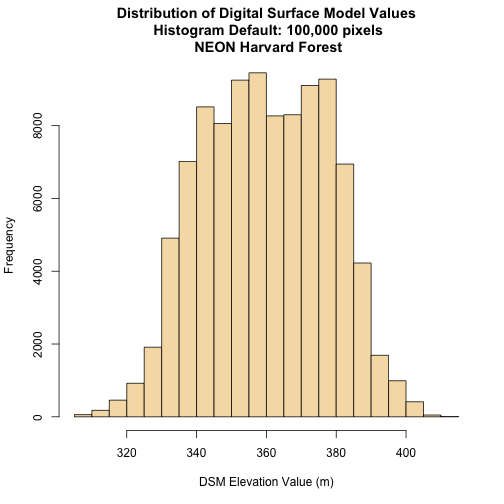
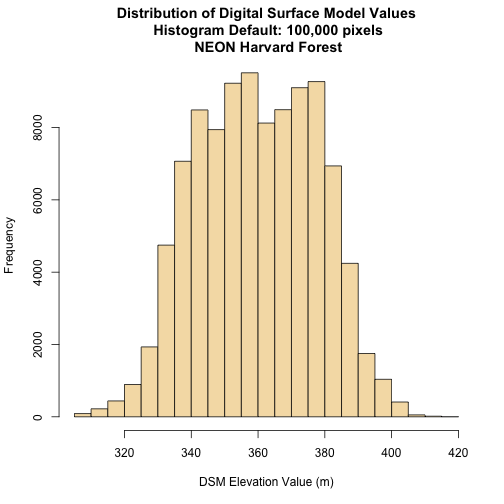
Rebuild and cleanup of raster repo

diff --git a/_posts/R/dc-spatial-raster/2016-01-07-SR07-Extract-NDVI-From-Rasters-in-R.md b/_posts/R/dc-spatial-raster/2016-01-07-SR07-Extract-NDVI-From-Rasters-in-R.md
@@ -394,6 +394,30 @@ to high levels of cloud cover.
 
 Is the same thing happening at SJER?
 
+
+    # open up the cropped files
+    rgb.allCropped.SJER <-  list.files("NEON-DS-Landsat-NDVI/SJER/2011/RGB/", 
+                                  full.names=TRUE, 
+                                  pattern = ".tif$")
+    # create a layout
+    par(mfrow=c(5,4))
+    
+    # Super efficient code
+    # note that there is an issue with one of the rasters
+    # NEON-DS-Landsat-NDVI/SJER/2011/RGB/254_SJER_landRGB.tif has a blue band with no range
+    # thus you can't apply a stretch to it. The code below skips the stretch for
+    # that one image. You could automate this by testing the range of each band in each image
+    
+    for (aFile in rgb.allCropped.SJER)
+      {NDVI.rastStack <- stack(aFile)
+      if (aFile =="NEON-DS-Landsat-NDVI/SJER/2011/RGB//254_SJER_landRGB.tif")
+        {plotRGB(NDVI.rastStack) }
+      else { plotRGB(NDVI.rastStack, stretch="lin") }
+    }
+    
+    # reset layout
+    par(mfrow=c(1,1))
+
 ![ ]({{ site.baseurl }}/images/rfigs/dc-spatial-raster/07-Extract-NDVI-From-Rasters-in-R/view-all-rgb-SJER-1.png) 
 
 Without significant additional processing, we will not be able to retrieve a

diff --git a/_posts/R/dc-spatial-raster/2016-01-07-SR05-Time-Series-Raster.md b/_posts/R/dc-spatial-raster/2016-01-07-SR05-Time-Series-Raster.md
@@ -365,9 +365,14 @@ derive our NDVI rasters to try to understand what appears to be outlier NDVI val
 those images to jdays 133 and 197.
 3. Does the RGB imagery from these two days explain the low NDVI values observed
 on these days?  
+
+HINT: if you want to plot 4 images in a tiled set, you can use 
+`par(mfrow=c(2,2))` to create a 2x2 tiled layout. When you are done, be sure to
+reset your layout using: `par(mfrow=c(1,1))`.
+
 </div>
 
-![ ]({{ site.baseurl }}/images/rfigs/dc-spatial-raster/05-Time-Series-Raster/view-all-rgb-1.png) ![ ]({{ site.baseurl }}/images/rfigs/dc-spatial-raster/05-Time-Series-Raster/view-all-rgb-2.png) ![ ]({{ site.baseurl }}/images/rfigs/dc-spatial-raster/05-Time-Series-Raster/view-all-rgb-3.png) ![ ]({{ site.baseurl }}/images/rfigs/dc-spatial-raster/05-Time-Series-Raster/view-all-rgb-4.png) 
+![ ]({{ site.baseurl }}/images/rfigs/dc-spatial-raster/05-Time-Series-Raster/view-all-rgb-1.png) 
 
 ## Explore The Data's Source
 The third challenge question, "Does the RGB imagery from these two days explain 

diff --git a/_posts/R/dc-spatial-raster/2016-01-07-SR00-Raster-Structure.md b/_posts/R/dc-spatial-raster/2016-01-07-SR00-Raster-Structure.md
@@ -106,6 +106,13 @@ is below. Elevation is represented as continuous numeric variable in this map. T
 shows the continuous range of values in the data from around 300 to 420 meters.
 
 
+    ## rgdal: version: 1.1-1, (SVN revision 572)
+    ##  Geospatial Data Abstraction Library extensions to R successfully loaded
+    ##  Loaded GDAL runtime: GDAL 1.11.3, released 2015/09/16
+    ##  Path to GDAL shared files: /usr/local/Cellar/gdal/1.11.3/share/gdal
+    ##  Loaded PROJ.4 runtime: Rel. 4.9.2, 08 September 2015, [PJ_VERSION: 492]
+    ##  Path to PROJ.4 shared files: (autodetected)
+    ##  Linking to sp version: 1.2-1
 
 
 ![ ]({{ site.baseurl }}/images/rfigs/dc-spatial-raster/00-Raster-Structure/elevation-map-1.png) 

diff --git a/_posts/R/dc-spatial-raster/2016-01-07-SR01-Plot-Raster.md b/_posts/R/dc-spatial-raster/2016-01-07-SR01-Plot-Raster.md
@@ -130,7 +130,7 @@ break values.
 
     DSMhist$counts
 
-    ## [1] 31981 67543   476
+    ## [1] 31844 67690   466
 
 Warning message!? Remember, the default for the histogram is to include only a
 subset of 100,000 values. We could force it to show all the pixel values or we
